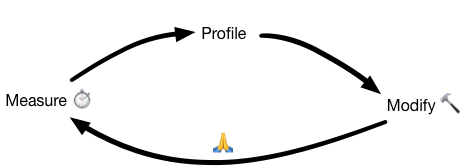
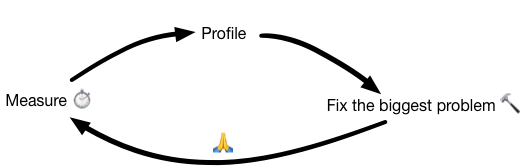
bulletheadedness (fixes)

diff --git a/PITCHME.md b/PITCHME.md
@@ -26,8 +26,18 @@ Where in the stack is the perf bottleneck?
 
 +++
 
-![Layers](images/perf-layers.png)
+![](images/perf-layers.png)
 
 ---
 
 ![](images/opt-loop.png)
+
+---
+
+Profilers
+
++++
+
+![](images/profilers.png)
+
+----
